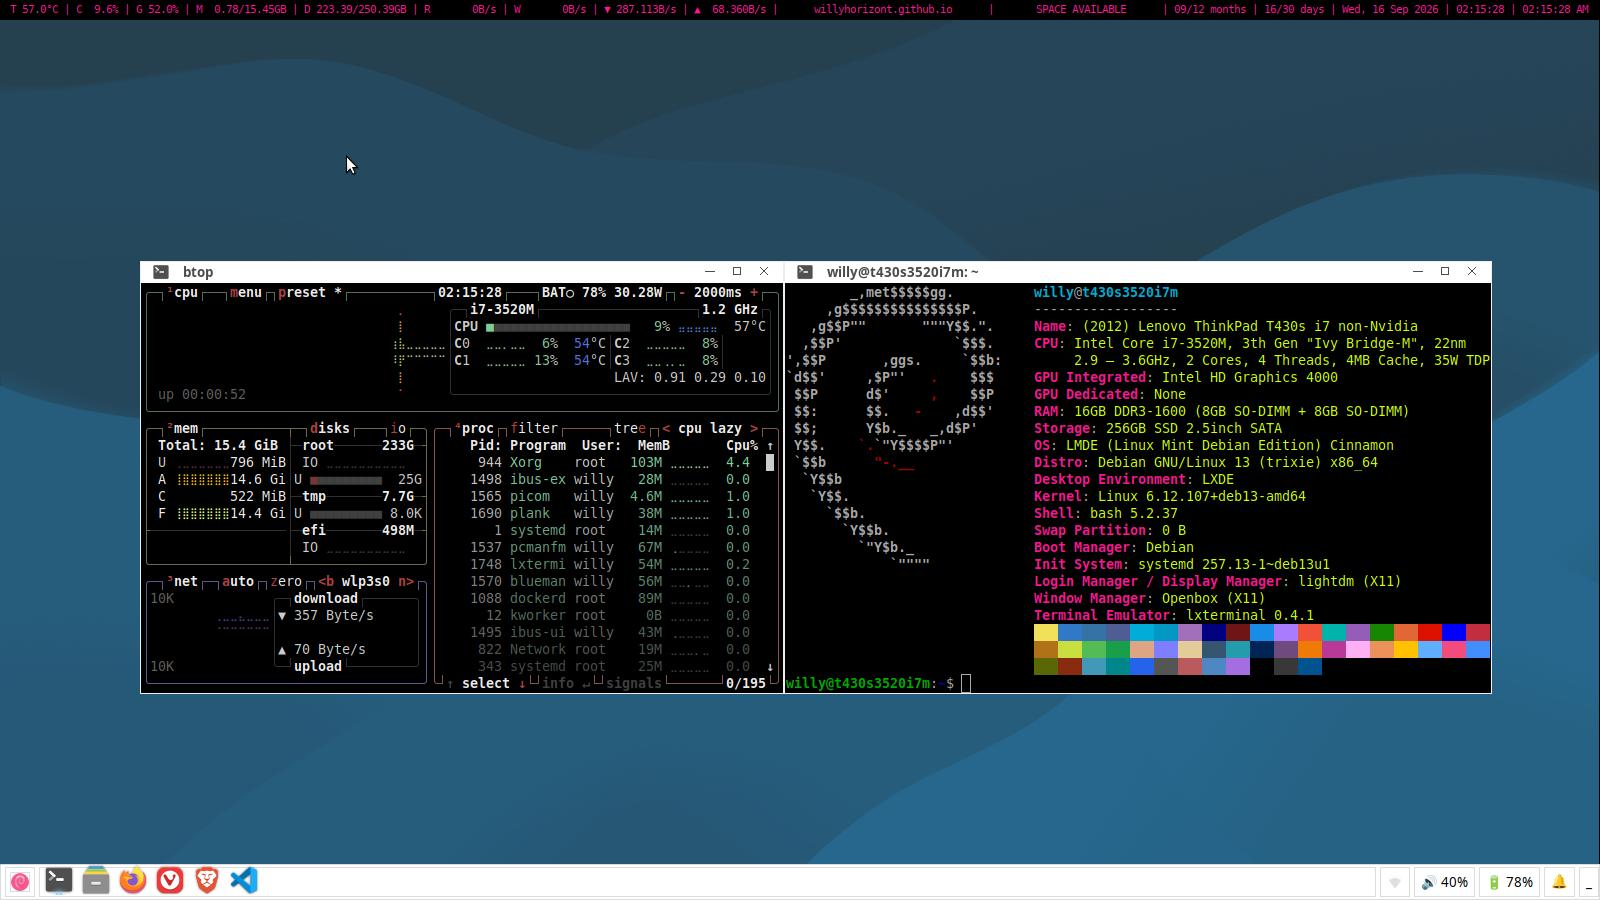
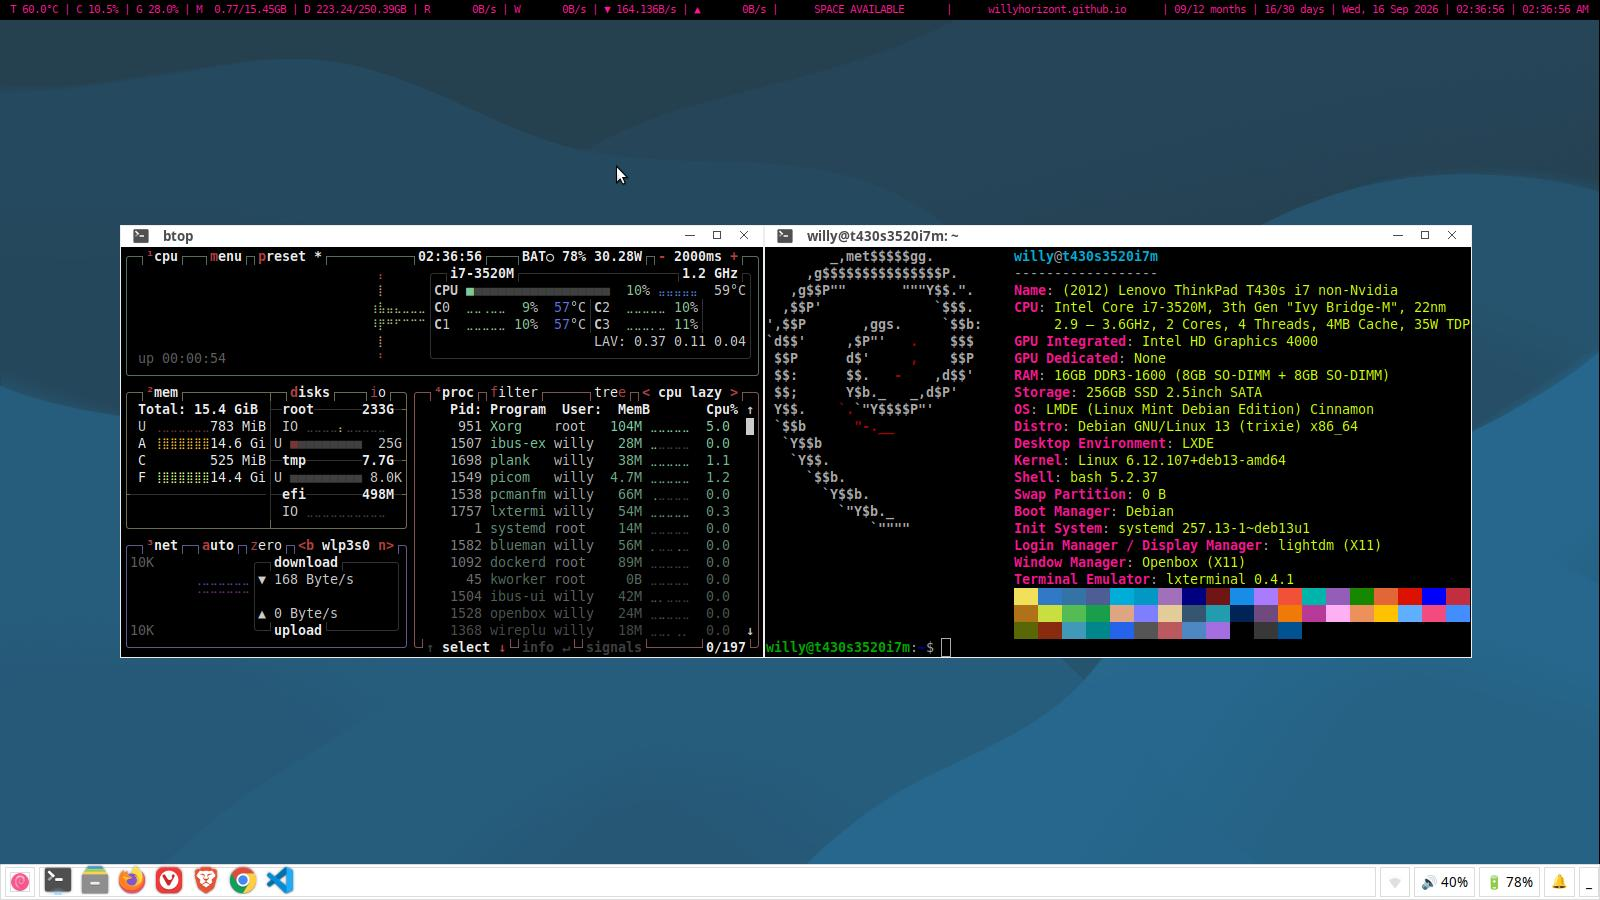
[Last updated: 16 Sep 2026 @ 02:42 AM][version: 0.0.24] update refresh-desktop.sh; update pinned app in bottom panel app launcher; update screenshot;

diff --git a/README.md b/README.md
@@ -487,6 +487,9 @@ cat << 'EOF' > ~/.config/jgmenu/prepend.csv
 Terminal,lxterminal,utilities-terminal
 File Manager,pcmanfm,system-file-manager
 Firefox Web Browser,firefox-esr,firefox-esr
+Vivaldi Web Browser,vivaldi-stable,vivaldi
+Brave Web Browser,brave-browser-stable,brave-browser
+Chrome Web Browser,google-chrome-stable,google-chrome
 EOF
 
 cat << 'EOF' > ~/.config/jgmenu/append.csv
